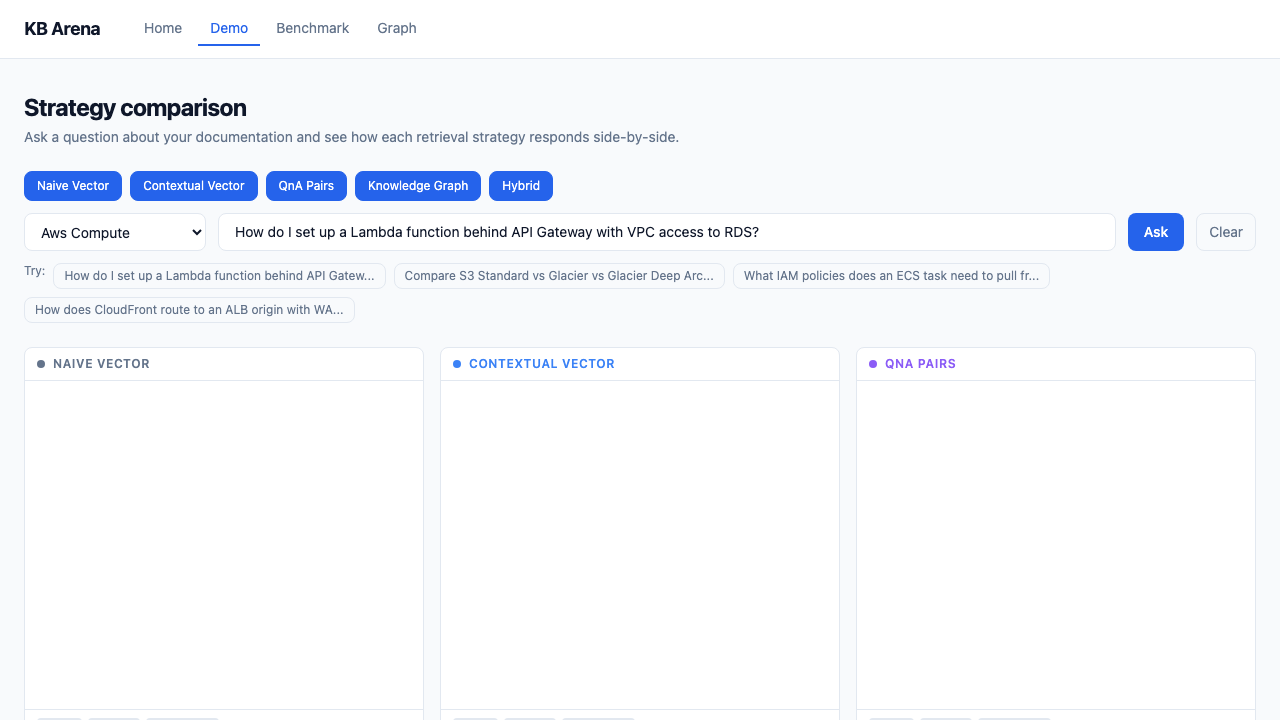
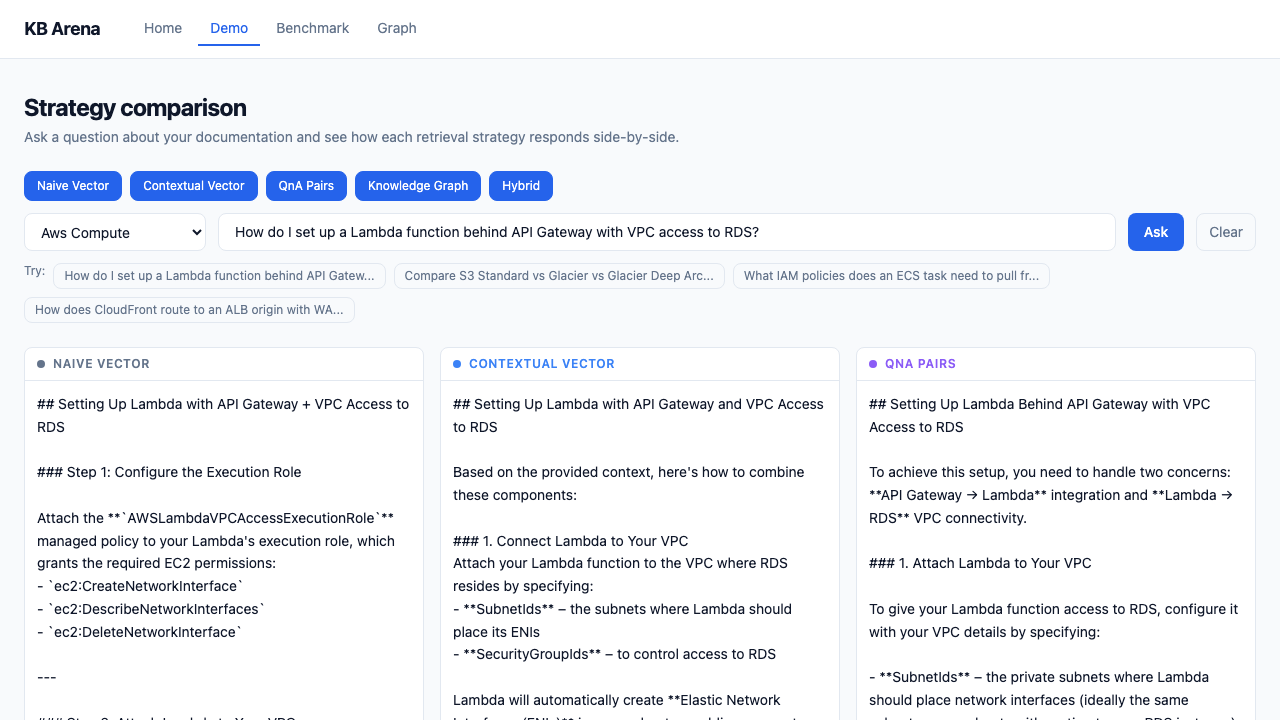
Fix SSE streaming in demo page SSE parser split on \n but server sends \r\n — strip trailing \r before checking line === "". Also moved eventType/dataLine outside the while loop to persist across chunks.

diff --git a/web/lib/api.ts b/web/lib/api.ts
@@ -164,7 +164,8 @@ export async function* streamChat(
     const lines = buffer.split("\n");
     buffer = lines.pop() ?? "";
 
-    for (const line of lines) {
+    for (const rawLine of lines) {
+      const line = rawLine.replace(/\r$/, "");
       if (line.startsWith("event:")) {
         eventType = line.slice(6).trim();
       } else if (line.startsWith("data:")) {
